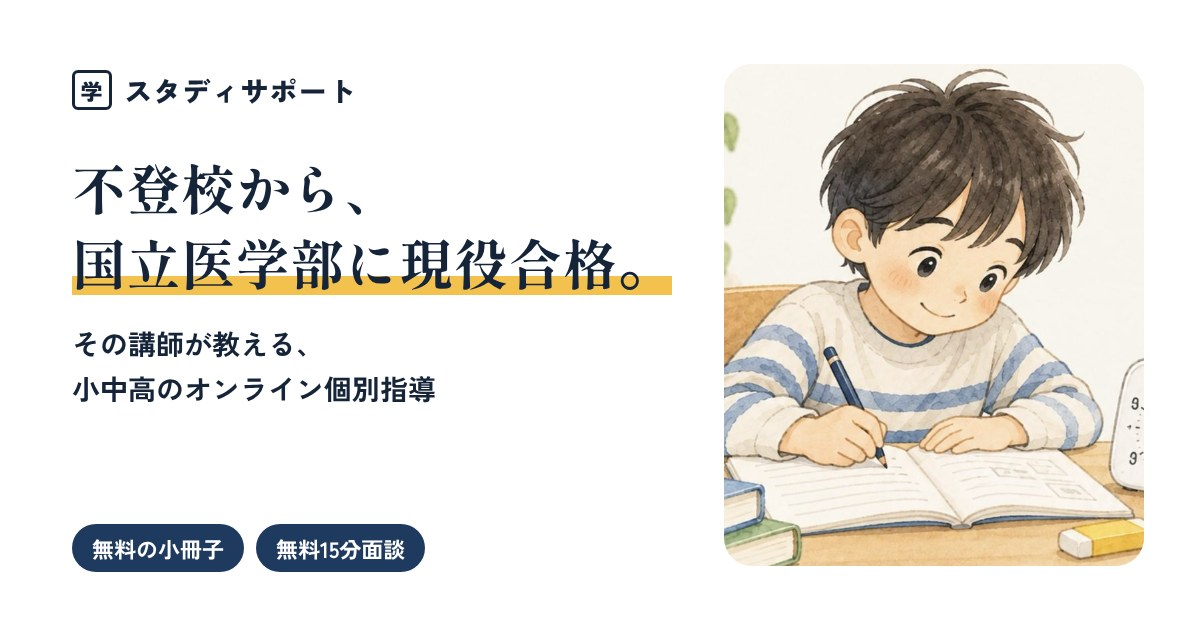
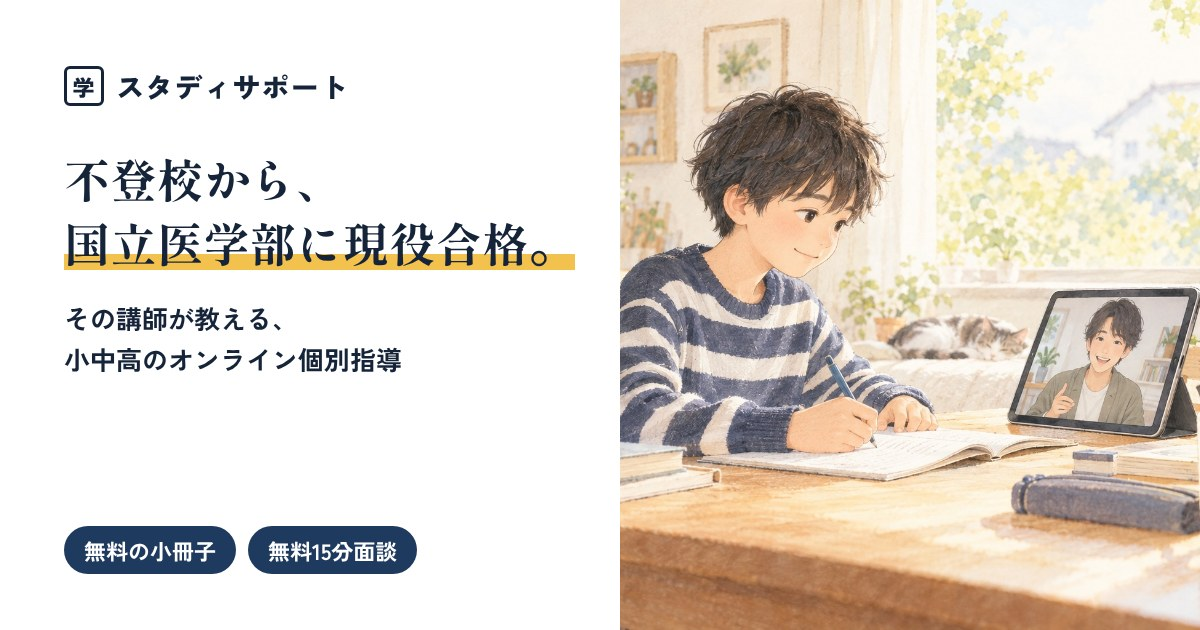
トップの絵とリンク用の画像を新しくする

diff --git a/index.html b/index.html
@@ -12,7 +12,7 @@
 <meta property="og:title" content="スタディサポート｜不登校から国立医学部｜小中高の個別指導">
 <meta property="og:description" content="不登校から国立医学部に現役合格した講師が書いた、3分で読める無料の小冊子。わかる所まで戻って教える、小中高のオンライン個別指導です。無料15分面談は保護者さまだけでもOK。">
 <meta property="og:url" content="https://studysupport-jp.github.io/">
-<meta property="og:image" content="https://studysupport-jp.github.io/og.jpg">
+<meta property="og:image" content="https://studysupport-jp.github.io/og.jpg?v=2">
 <meta property="og:image:width" content="1200">
 <meta property="og:image:height" content="630">
 <meta property="og:locale" content="ja_JP">
@@ -92,7 +92,7 @@ button{font:inherit;color:inherit}
 /* preface (hero) */
 .preface{padding-block:36px 8px;display:grid;gap:22px}
 .hero-fig{margin:0}
-.hero-fig img{display:block;width:100%;max-width:100%;height:auto;aspect-ratio:1200/754;border-radius:20px}
+.hero-fig img{display:block;width:100%;max-width:100%;height:auto;aspect-ratio:3/2;border-radius:20px}
 .kicker{font-size:13px;font-weight:700;color:var(--ink-2);letter-spacing:.06em}
 .preface h1{font-family:var(--font-mincho);font-weight:800;font-size:clamp(27px,6.8vw,44px);line-height:1.5;letter-spacing:.02em}
 .letter{display:grid;gap:14px;font-size:16.5px;line-height:2;letter-spacing:.02em;border-left:3px solid var(--accent);padding-left:18px}
@@ -301,7 +301,7 @@ footer{border-top:1px solid var(--line);margin-top:48px;padding-block:20px 40px;
     <section class="preface" id="top" aria-labelledby="preface-h">
       <p class="kicker">不登校から国立医学部に現役合格した講師が書いた、3分で読める無料の小冊子</p>
       <h1 id="preface-h">明け方までゲームをして、学校に行けなくなった僕が、国立医学部に現役合格するまで。</h1>
-      <figure class="hero-fig"><img src="img/hero.jpg" alt="タイマーを横に置いて、机で勉強している男の子のイラスト" width="1200" height="754"></figure>
+      <figure class="hero-fig"><img src="img/hero.jpg?v=2" alt="タブレットでオンライン授業を受けながら、笑顔でノートに書いている男の子のイラスト。画面には笑顔の先生、うしろでお母さんが見守っている" width="1200" height="800"></figure>
       <div class="letter">
         <p>僕は、毎晩、朝の3時から5時ごろまで、ゲームやYouTubeをしていました。朝は起きられず、そのうち学校に行けなくなりました。人と話すのも苦手で、ADHDの特性もあって、机に向かっても集中が続きませんでした。</p>
         <p>変わったのは、親がそのままの僕を受け止めてくれるようになってからです。そこで初めて「何かやってみようかな」と思えました。最初にやったのは、勉強ではなく、体を動かすこと。そこから少しずつ立て直して、国立医学部に現役合格しました。</p>

diff --git a/annai.html b/annai.html
@@ -12,7 +12,7 @@
 <meta property="og:title" content="授業のご案内｜スタディサポート">
 <meta property="og:description" content="不登校から国立医学部に現役合格した講師が書いた、3分で読める無料の小冊子。わかる所まで戻って教える、小中高のオンライン個別指導です。無料15分面談は保護者さまだけでもOK。">
 <meta property="og:url" content="https://studysupport-jp.github.io/annai.html">
-<meta property="og:image" content="https://studysupport-jp.github.io/og.jpg">
+<meta property="og:image" content="https://studysupport-jp.github.io/og.jpg?v=2">
 <meta property="og:image:width" content="1200">
 <meta property="og:image:height" content="630">
 <meta property="og:locale" content="ja_JP">
